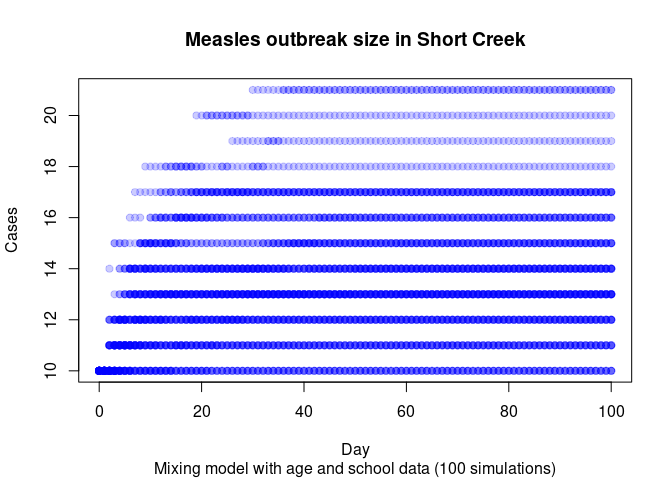
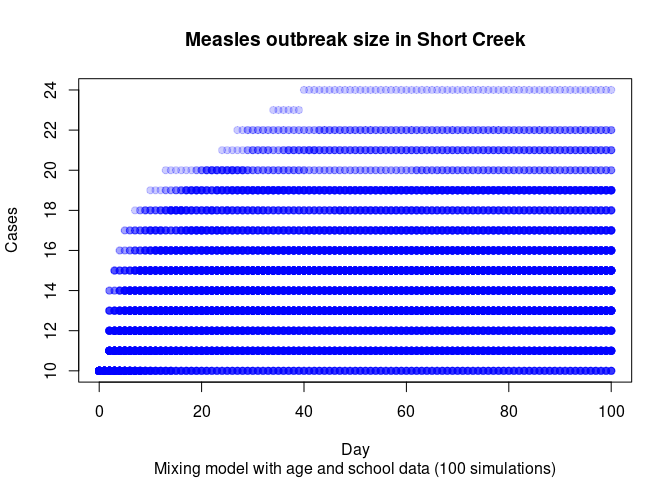
Up to 200 simulations works great

diff --git a/README.md b/README.md
@@ -127,14 +127,14 @@ Running the model
 davis_model |>
   run_multiple(
     ndays = 100,
-    nsims = 50,
+    nsims = 200,
     seed  = 8812,
     saver = make_saver("outbreak_size", "hospitalizations"),
-    nthreads = 10L
+    nthreads = 25L
   )
 ```
 
-    Starting multiple runs (50) using 10 thread(s)
+    Starting multiple runs (200) using 25 thread(s)
     _________________________________________________________________________
     _________________________________________________________________________
     ||||||||||||||||||||||||||||||||||||||||||||||||||||||||||||||||||||||||| done.
@@ -155,10 +155,10 @@ summary(davis_model)
     Number of entities  : 142
     Days (duration)     : 100 (of 100)
     Number of viruses   : 1
-    Last run elapsed t  : 0.00m
-    Total elapsed t     : 2.00m (50 runs)
-    Last run speed      : 2.11 million agents x day / second
-    Average run speed   : 13.90 million agents x day / second
+    Last run elapsed t  : 8.00s
+    Total elapsed t     : 69.00s (200 runs)
+    Last run speed      : 4.33 million agents x day / second
+    Average run speed   : 108.40 million agents x day / second
     Rewiring            : off
 
     Global events:
@@ -199,12 +199,12 @@ summary(davis_model)
 
     Transition Probabilities:
      - Susceptible              1.00  0.00     -     -     -  0.00  0.00     -     -     -
-     - Exposed                     -  0.81  0.19     -     -     -     -     -     -     -
-     - Infected                    -     -     -     -     -     -     -  0.38     -  0.62
+     - Exposed                     -  0.82  0.18     -     -     -     -     -     -     -
+     - Infected                    -     -     -     -     -     -     -  0.27     -  0.73
      - Isolated                    -     -     -     -     -     -     -  1.00     -     -
      - Detected Hospitalized       -     -     -     -     -     -     -     -     -     -
      - Quarantined Susceptible  0.07     -     -     -     -  0.93     -     -     -     -
-     - Quarantined Exposed         -     -     -  0.12     -     -  0.88     -     -     -
+     - Quarantined Exposed         -     -     -  0.29     -     -  0.71     -     -     -
      - Isolated Recovered          -     -     -     -     -     -     -  0.75     -  0.25
      - Hospitalized                -     -     -     -     -     -     -     -     -     -
      - Recovered                   -     -     -     -     -     -     -     -     -  1.00
@@ -221,12 +221,12 @@ str(ans)
 ```
 
     List of 2
-     $ outbreak_size   :Classes 'epiworld_multiple_save_i', 'data.table' and 'data.frame':  5050 obs. of  5 variables:
-      ..$ sim_num      : int [1:5050] 1 1 1 1 1 1 1 1 1 1 ...
-      ..$ date         : int [1:5050] 0 1 2 3 4 5 6 7 8 9 ...
-      ..$ virus_id     : int [1:5050] 0 0 0 0 0 0 0 0 0 0 ...
-      ..$ virus        : chr [1:5050] "Davis county" "Davis county" "Davis county" "Davis county" ...
-      ..$ outbreak_size: int [1:5050] 10 10 10 10 11 12 12 12 12 12 ...
+     $ outbreak_size   :Classes 'epiworld_multiple_save_i', 'data.table' and 'data.frame':  20200 obs. of  5 variables:
+      ..$ sim_num      : int [1:20200] 1 1 1 1 1 1 1 1 1 1 ...
+      ..$ date         : int [1:20200] 0 1 2 3 4 5 6 7 8 9 ...
+      ..$ virus_id     : int [1:20200] 0 0 0 0 0 0 0 0 0 0 ...
+      ..$ virus        : chr [1:20200] "Davis county" "Davis county" "Davis county" "Davis county" ...
+      ..$ outbreak_size: int [1:20200] 10 10 10 10 11 12 12 12 12 12 ...
       ..- attr(*, ".internal.selfref")=<externalptr> 
       ..- attr(*, "what")= chr "outbreak_size"
      $ hospitalizations:Classes 'epiworld_multiple_save_i' and 'data.frame':    0 obs. of  6 variables:
